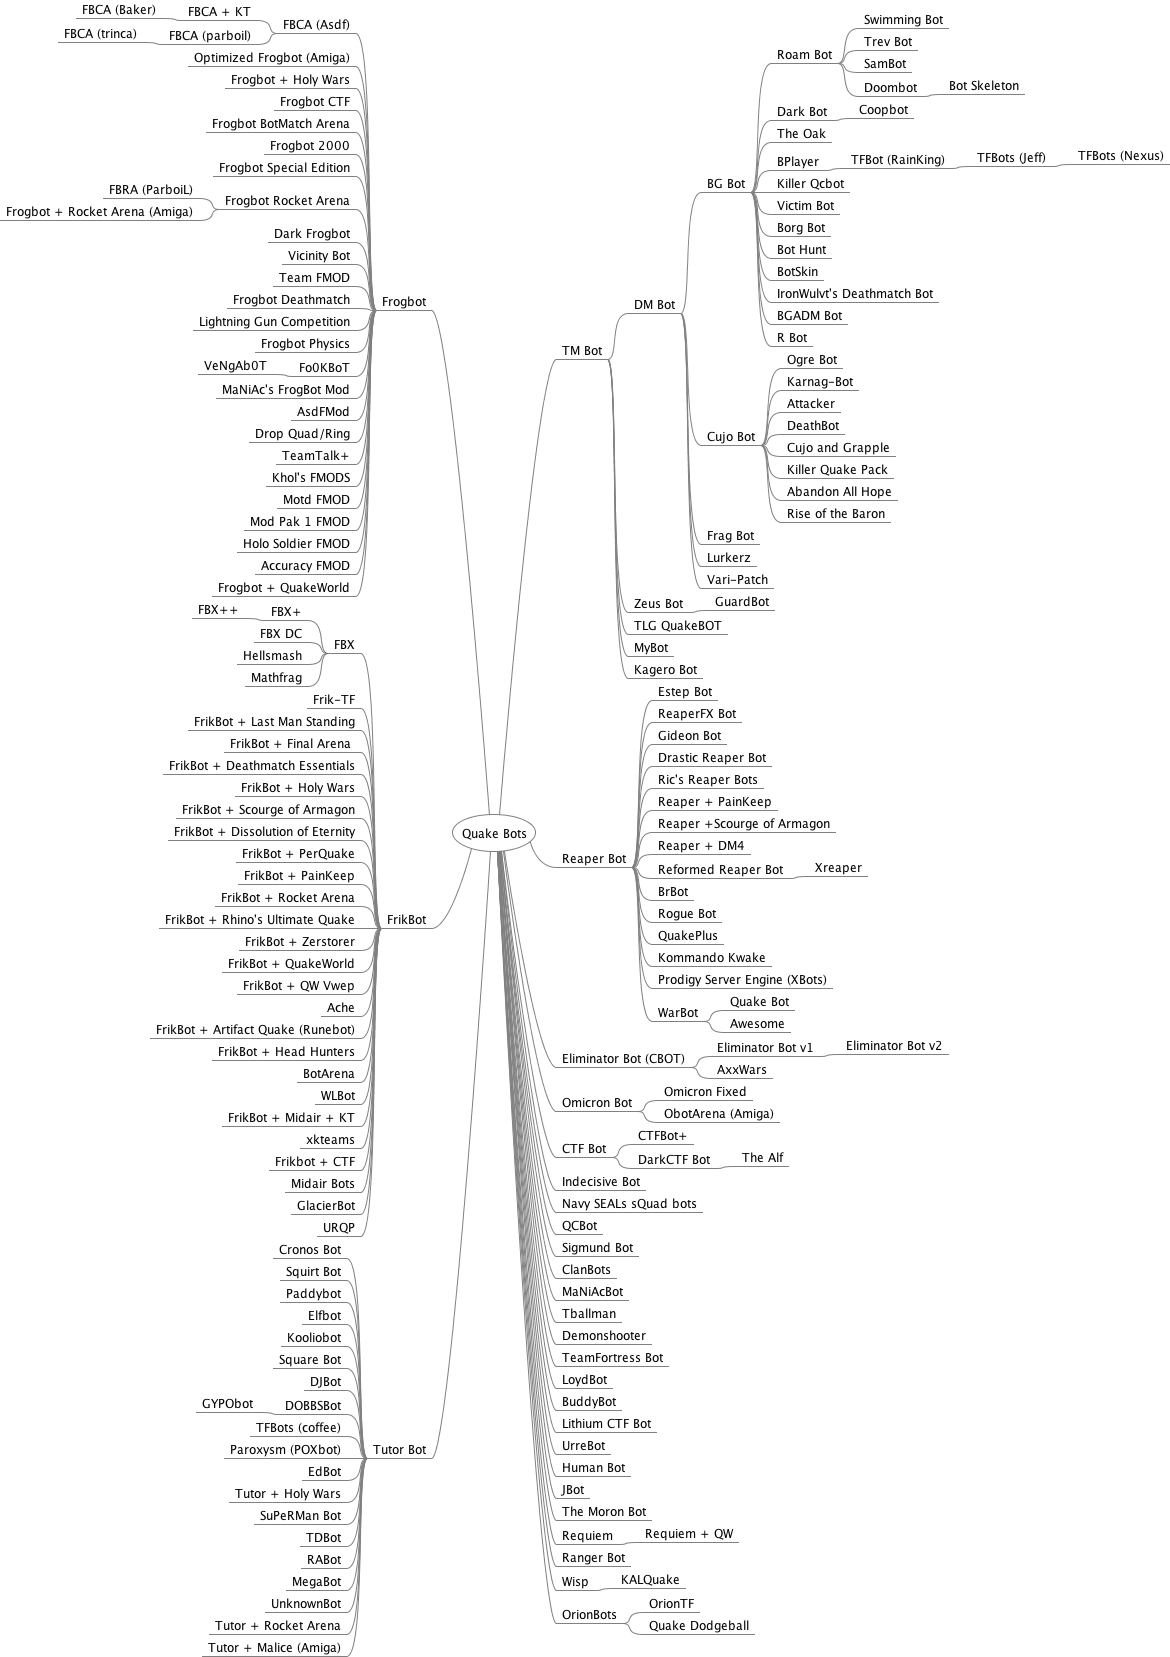
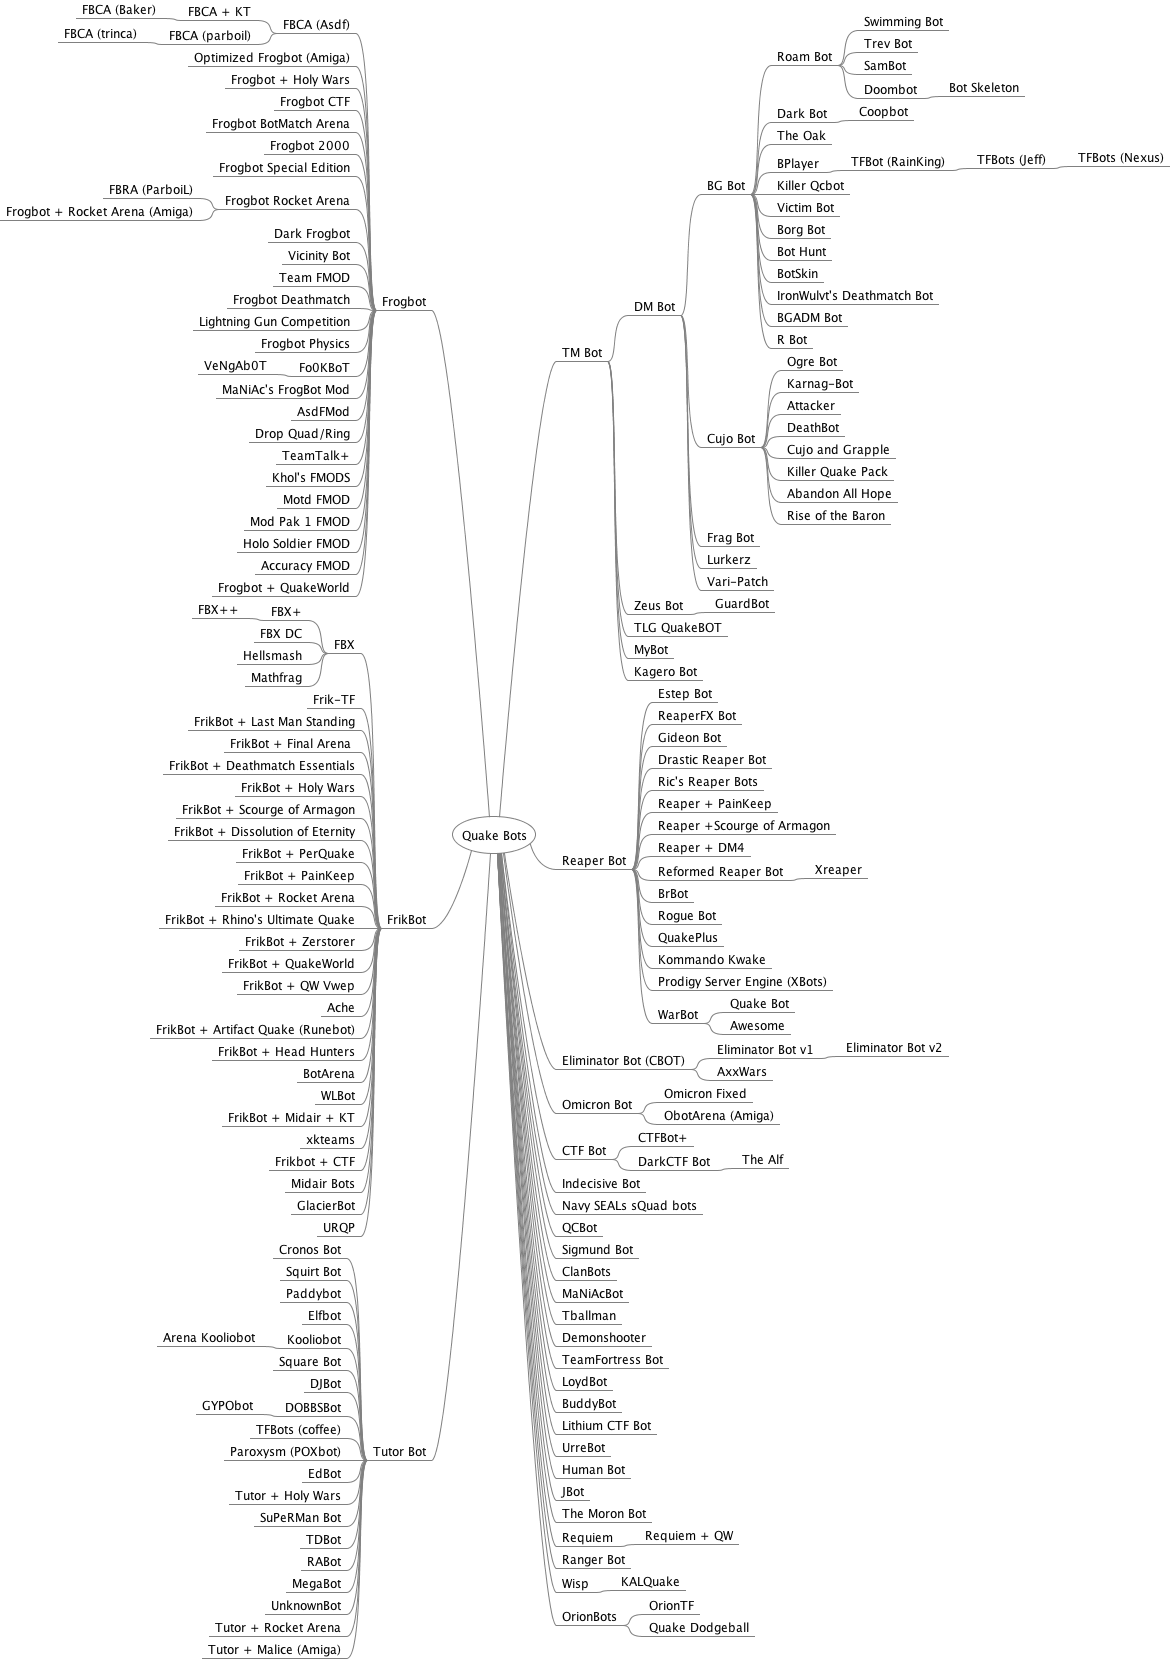
Added rakoolio.zip

diff --git a/research/mindmap/QuakeBots.mm b/research/mindmap/QuakeBots.mm
@@ -170,7 +170,9 @@
 <node CREATED="1622665755811" ID="ID_1110325053" MODIFIED="1622665757190" TEXT="Squirt Bot"/>
 <node CREATED="1622666096174" ID="ID_1637279739" MODIFIED="1622666098346" TEXT="Paddybot"/>
 <node CREATED="1622667023223" ID="ID_1875001763" MODIFIED="1622667024461" TEXT="Elfbot"/>
-<node CREATED="1622667943906" ID="ID_660699926" MODIFIED="1623134310928" TEXT="Kooliobot"/>
+<node CREATED="1622667943906" ID="ID_660699926" MODIFIED="1623134310928" TEXT="Kooliobot">
+<node CREATED="1630966367738" ID="ID_910539103" MODIFIED="1630966369650" TEXT="Arena Kooliobot"/>
+</node>
 <node CREATED="1622672469661" ID="ID_780822664" MODIFIED="1622672471287" TEXT="Square Bot"/>
 <node CREATED="1622683562613" ID="ID_966765878" MODIFIED="1622683565806" TEXT="DJBot"/>
 <node CREATED="1622671253021" ID="ID_960217876" MODIFIED="1622671254106" TEXT="DOBBSBot">

diff --git a/README.md b/README.md
@@ -43,6 +43,7 @@ Bot Name | Bot Author(s) | File
 Abandon All Hope (Cujo) | John McClure | [abnd2a.zip](bin/abnd2a.zip) ([txt](bin/abnd2a.txt))<br>[abandon2.zip](bin/abandon2.zip) ([txt](bin/abandon2.txt))<br>abandon1.zip
 Accuracy FMOD (Frogbot) | Algirdas Kepezinskas aka "ZeCybEr" | accuracy.zip
 Ache (Frikbot) | Athos Konkoran Kryn | [ache.zip](bin/ache.zip)
+Arena Kooliobot | Robert de Heus aka "Koolio" | rakoolio.zip
 Asdf's FMOD (Frogbot) | Matt McChesney aka "asdf" | [asdfmod100.zip](bin/asdfmod100.zip)
 Attacker | Jonathan Geary | [attacker.zip](bin/attacker.zip) ([txt](bin/attacker.txt))
 Awesome (Warbot) | Brett King aka "BulkA" | [awesome.7z](bin/awesome.7z)
